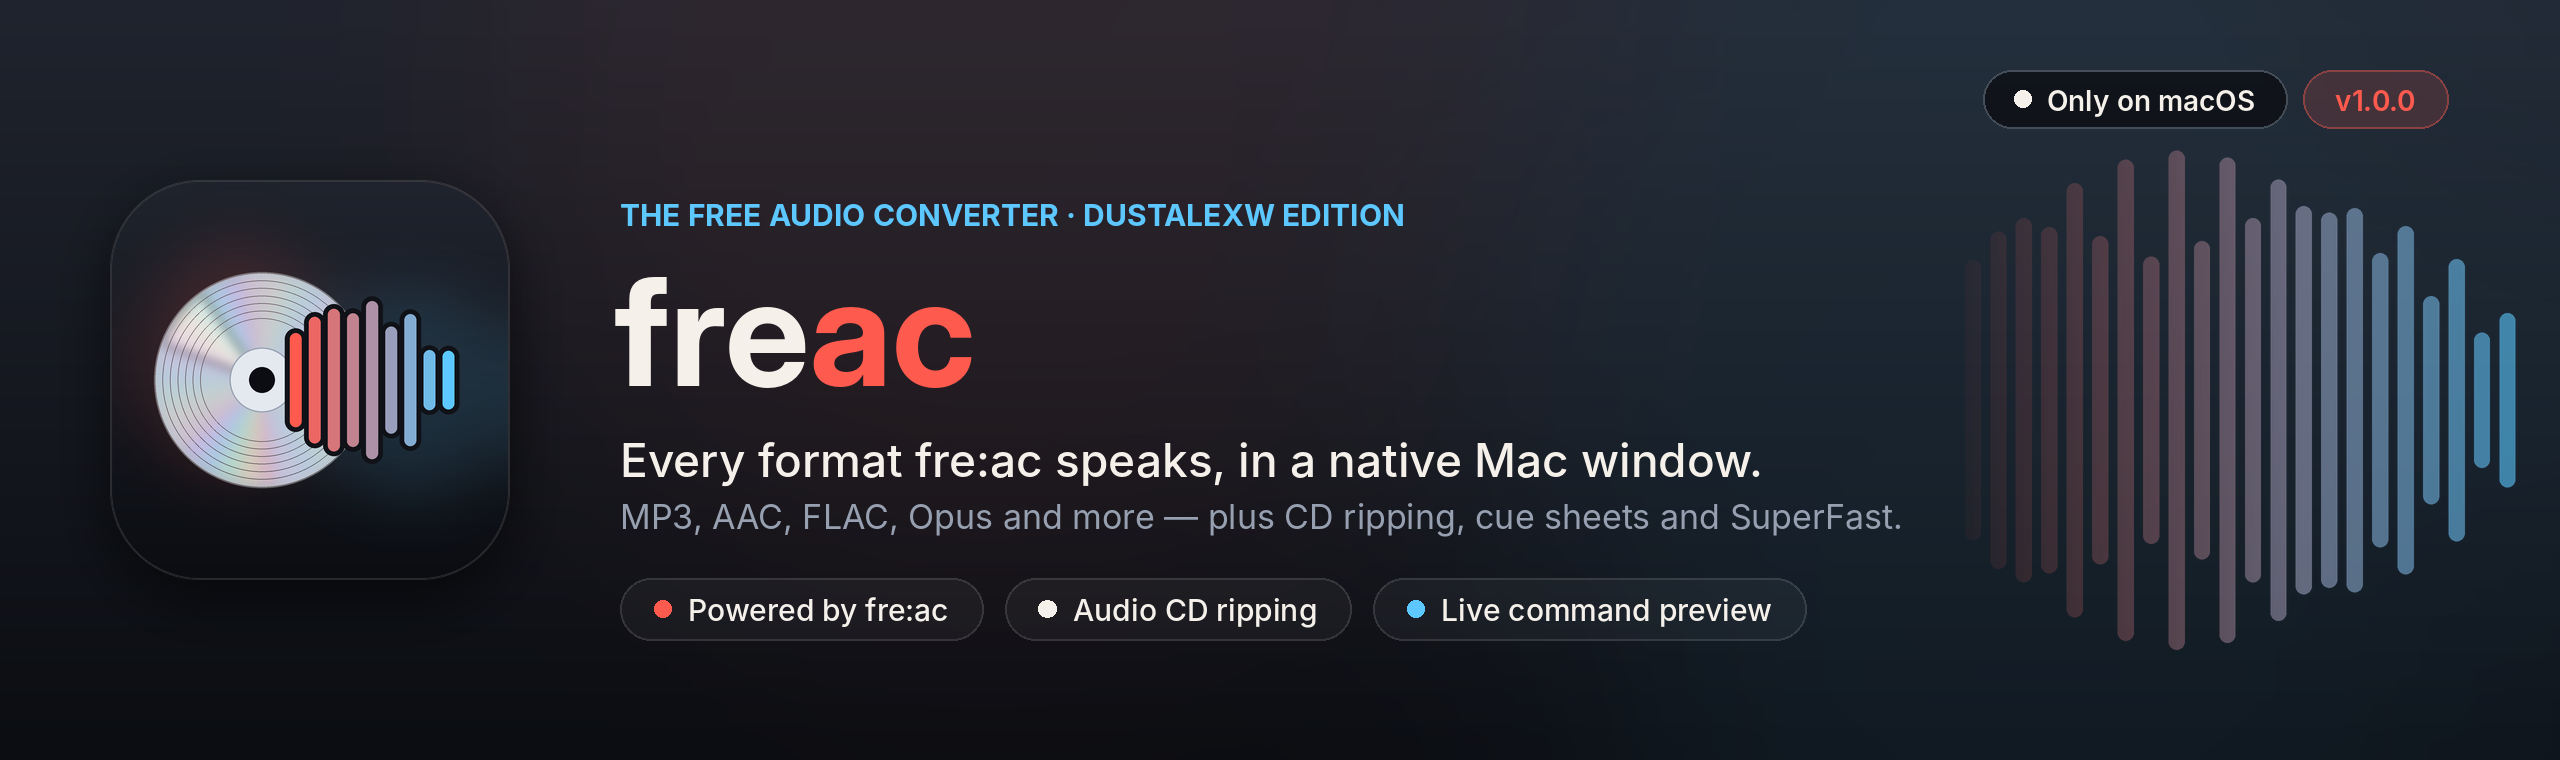
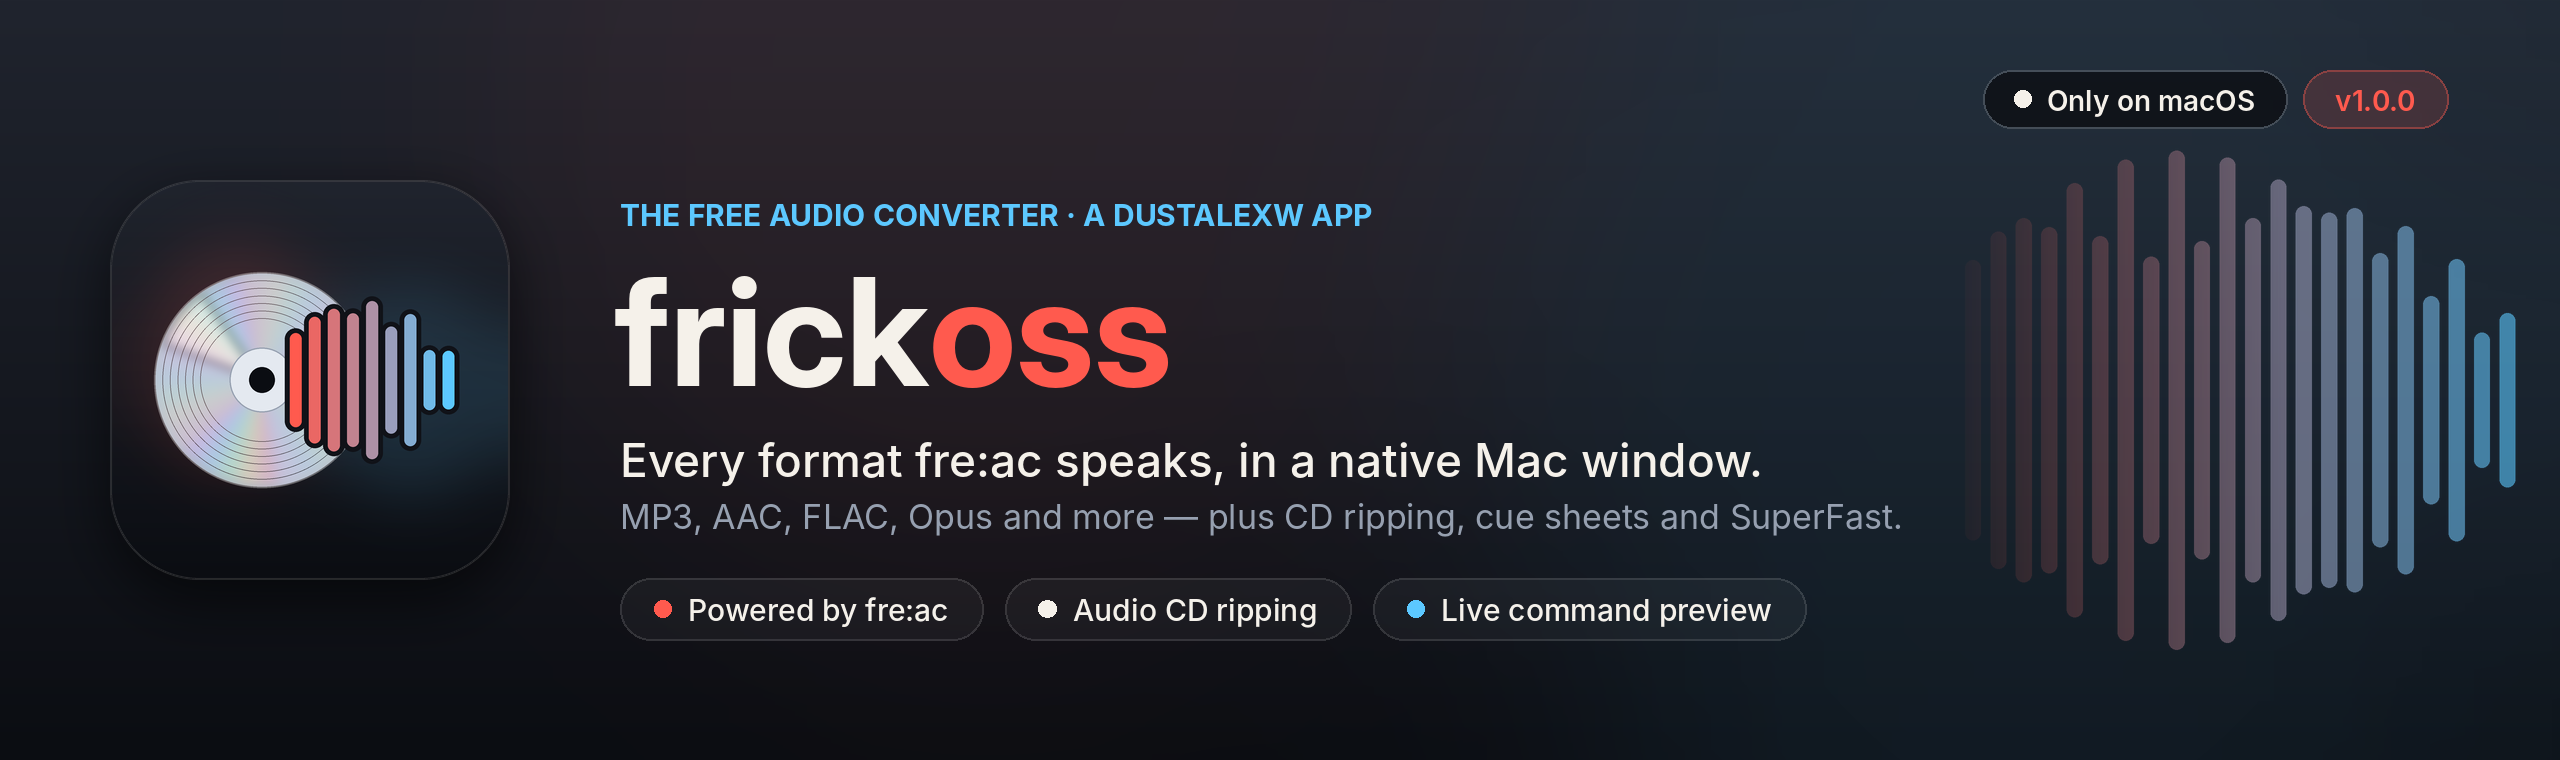
Rename the app to frickoss
freac (dustalexw edition) is now frickoss: window, menus, About,
brand bar, app bundle (frickoss.app, com.dustalexw.frickoss), Swift
target, README and header. fre:ac is still credited as the engine
("powered by fre:ac").

Claude-Session: https://claude.ai/code/session_01GjxRronC61BuUcQ3WpvyPP

Changed region(s): [[0.2812, 0.3632, 0.4688, 0.5145], [0.4062, 0.2724, 0.5625, 0.3026]]

diff --git a/Sources/Frickoss/Views/AboutView.swift b/Sources/Frickoss/Views/AboutView.swift
@@ -35,7 +35,7 @@ struct AboutView: View {
             }
             .padding(.top, 16)
 
-            Text("fre:ac © Robert Kausch and contributors, GPL-2.0. This edition is a native front end: all conversion is done by fre:ac's own freaccmd, unchanged. Codecs are under their own licences.")
+            Text("fre:ac © Robert Kausch and contributors, GPL-2.0. frickoss is a native front end: all conversion is done by fre:ac's own freaccmd, unchanged. Codecs are under their own licences.")
                 .font(.system(size: 10.5))
                 .multilineTextAlignment(.center)
                 .foregroundStyle(Theme.dim)
@@ -56,10 +56,10 @@ struct AboutView: View {
                 .interpolation(.high)
                 .frame(width: 112, height: 112)
                 .shadow(color: Theme.coral.opacity(0.45), radius: 22, y: 6)
-            (Text("fre").foregroundColor(Theme.cream) + Text("ac").foregroundColor(Theme.coral))
+            (Text("frick").foregroundColor(Theme.cream) + Text("oss").foregroundColor(Theme.coral))
                 .font(.system(size: 34, weight: .heavy, design: .rounded))
             Capsule().fill(Theme.wave).frame(width: 96, height: 4)
-            Text("dustalexw edition")
+            Text("powered by fre:ac")
                 .font(.system(size: 11, weight: .bold)).tracking(1.2)
                 .foregroundStyle(Theme.sky)
             Text("Every format fre:ac speaks, in a native Mac window.")
@@ -126,7 +126,7 @@ struct SettingsView: View {
                 Button("Find Automatically") { engine.resetCustom() }.buttonStyle(PlateButtonStyle())
                 if engine.isLoading { ProgressView().controlSize(.small) }
             }
-            Hint("This edition finds fre:ac by itself (normally /Applications/freac.app). Choose a different copy here if you keep one elsewhere.")
+            Hint("frickoss finds fre:ac by itself (normally /Applications/freac.app). Choose a different copy here if you keep one elsewhere.")
         }
         .padding(22)
         .frame(width: 460)

diff --git a/Sources/Frickoss/FrickossApp.swift b/Sources/Frickoss/FrickossApp.swift
@@ -2,7 +2,7 @@ import SwiftUI
 import AppKit
 
 enum AppInfo {
-    static let name = "freac (dustalexw edition)"
+    static let name = "frickoss"
     static var version: String {
         Bundle.main.object(forInfoDictionaryKey: "CFBundleShortVersionString") as? String ?? "dev"
     }
@@ -20,7 +20,7 @@ final class AppDelegate: NSObject, NSApplicationDelegate {
 }
 
 @main
-struct FreacEditionApp: App {
+struct FrickossApp: App {
     @NSApplicationDelegateAdaptor(AppDelegate.self) private var appDelegate
     @StateObject private var engine = FreacEngine()
     @StateObject private var store = SettingsStore()
@@ -28,7 +28,7 @@ struct FreacEditionApp: App {
     @Environment(\.openWindow) private var openWindow
 
     var body: some Scene {
-        WindowGroup("freac") {
+        WindowGroup("frickoss") {
             ContentView()
                 .environmentObject(engine)
                 .environmentObject(store)
@@ -43,7 +43,7 @@ struct FreacEditionApp: App {
         .commands {
             CommandGroup(replacing: .newItem) {}
             CommandGroup(replacing: .appInfo) {
-                Button("About freac (dustalexw edition)") { openWindow(id: "about", value: "about") }
+                Button("About frickoss") { openWindow(id: "about", value: "about") }
             }
             CommandGroup(replacing: .help) {
                 Button("fre:ac Website") { NSWorkspace.shared.open(URL(string: "https://www.freac.org")!) }
@@ -52,7 +52,7 @@ struct FreacEditionApp: App {
         }
 
         // A value-based group never opens on launch (a plain `Window` scene would flash up at startup).
-        WindowGroup("About freac (dustalexw edition)", id: "about", for: String.self) { _ in
+        WindowGroup("About frickoss", id: "about", for: String.self) { _ in
             AboutView()
                 .environmentObject(engine)
                 .tint(Theme.accent)

diff --git a/Sources/Frickoss/Views/Theme.swift b/Sources/Frickoss/Views/Theme.swift
@@ -233,7 +233,7 @@ struct Chip: View {
     }
 }
 
-/// Brand mark: the app icon and "freac" — "fre" in cream, "ac" in coral, as in the README header.
+/// Brand mark: the app icon and "frickoss" — "frick" in cream, "oss" in coral, as in the README header.
 struct BrandMark: View {
     var size: CGFloat = 19
     var body: some View {
@@ -242,9 +242,9 @@ struct BrandMark: View {
                 .resizable()
                 .interpolation(.high)
                 .frame(width: size * 1.9, height: size * 1.9)
-            (Text("fre").foregroundColor(Theme.cream) + Text("ac").foregroundColor(Theme.coral))
+            (Text("frick").foregroundColor(Theme.cream) + Text("oss").foregroundColor(Theme.coral))
                 .font(.system(size: size, weight: .heavy, design: .rounded))
-            Text("dustalexw edition")
+            Text("powered by fre:ac")
                 .font(.system(size: 10.5, weight: .bold))
                 .tracking(0.6)
                 .foregroundStyle(Theme.sky)
@@ -275,7 +275,7 @@ struct WindowChrome: NSViewRepresentable {
         window.titlebarAppearsTransparent = true
         window.styleMask.insert(.fullSizeContentView)
         if window.toolbar == nil {
-            let toolbar = NSToolbar(identifier: "freac-edition.chrome")
+            let toolbar = NSToolbar(identifier: "frickoss.chrome")
             toolbar.showsBaselineSeparator = false
             window.toolbar = toolbar
         }

diff --git a/Sources/Frickoss/Views/ContentView.swift b/Sources/Frickoss/Views/ContentView.swift
@@ -203,7 +203,7 @@ struct MissingFreacBanner: View {
             Image(systemName: "exclamationmark.triangle.fill").foregroundStyle(Theme.amber)
             VStack(alignment: .leading, spacing: 2) {
                 Text("fre:ac isn't installed").font(.system(size: 12.5, weight: .semibold)).foregroundStyle(Theme.cream)
-                Text("This edition is a new window for fre:ac's own converter. Install fre:ac from freac.org, or point to it.")
+                Text("frickoss is a new window for fre:ac's own converter. Install fre:ac from freac.org, or point to it.")
                     .font(.system(size: 11.5)).foregroundStyle(Theme.slate)
             }
             Spacer()

diff --git a/Package.swift b/Package.swift
@@ -2,11 +2,11 @@
 import PackageDescription
 
 let package = Package(
-    name: "FreacEdition",
+    name: "Frickoss",
     platforms: [.macOS(.v13)],
-    // The app ships as "freac (dustalexw edition).app"; the executable keeps a plain name.
-    products: [.executable(name: "FreacEdition", targets: ["FreacEdition"])],
+    // The app ships as "frickoss.app".
+    products: [.executable(name: "Frickoss", targets: ["Frickoss"])],
     targets: [
-        .executableTarget(name: "FreacEdition", path: "Sources/FreacEdition")
+        .executableTarget(name: "Frickoss", path: "Sources/Frickoss")
     ]
 )

diff --git a/Sources/Frickoss/Core/ProcessRunner.swift b/Sources/Frickoss/Core/ProcessRunner.swift
@@ -37,7 +37,7 @@ enum Shell {
 /// Runs freaccmd for a conversion and hands its output over as it arrives, on the main queue.
 final class ProcessRunner {
     private let process = Process()
-    private let queue = DispatchQueue(label: "freac-edition.process-runner")
+    private let queue = DispatchQueue(label: "frickoss.process-runner")
 
     /// Raw output text, in order — always called on the main queue.
     var onOutput: ((String) -> Void)?
